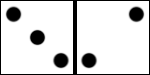
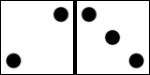
Images resized and minor changes

diff --git a/Domino/src/control/DominoGame.java b/Domino/src/control/DominoGame.java
@@ -203,8 +203,8 @@ public class DominoGame
 	public class MouseClickMotionListener implements MouseListener, MouseMotionListener
 	{
 		private PointerInfo mousePos;
-		private Stone draggedStone;
-		private Rectangle target;
+		private DominoLabel draggedStone;
+		private DominoLabel target;
 		
 		@Override
 		public void mouseDragged(MouseEvent e)
@@ -214,17 +214,14 @@ public class DominoGame
 			
 			if (e.getSource() instanceof DominoLabel)
 			{
-				view.textOut("Ich bin im MouseDragged");
 				DominoLabel d = (DominoLabel) e.getSource();
-				draggedStone = d.getStone();
+				draggedStone = d;
 				int offsetX = d.getTopLevelAncestor().getX() + d.getWidth()/2;
 				int offsetY = d.getTopLevelAncestor().getY() + d.getHeight();
 				
 				d.setLocation(mousePos.getLocation().x - offsetX, mousePos.getLocation().y - offsetY);
 				
-				target = view.checkIntersection();
-				
-				view.textOut("Autoscroll:" + d.getAutoscrolls());
+				target = view.checkIntersection(draggedStone, false);
 			}
 			
 			e.consume();
@@ -239,7 +236,7 @@ public class DominoGame
 			Object o = e.getSource();
 			
 			if (o instanceof DominoLabel)
-				draggedStone = ((DominoLabel) o).getStone();
+				draggedStone = (DominoLabel) o;
 		}
 
 		@Override
@@ -251,17 +248,26 @@ public class DominoGame
 			
 			if (c instanceof DominoLabel)
 			{
-				draggedStone = ((DominoLabel) c).getStone();
+				draggedStone = (DominoLabel) c;
 				System.err.println("Yeah, ich habe auf ein DominoLabel geklickt!");
-				draggedStone.rotateImage(90);
-				((DominoLabel) c).updateImage();
+				draggedStone.getStone().rotateImage(90);
+				draggedStone.updateImage();
 			}
 			
 			else if (c instanceof JLabel)
 				view.textOut("Yeah, ich habe auf ein JLabel geklickt!");
 			
 			else
-				view.addDominoe(allPlayers[0].getHand().get(2), mousePos.getLocation());
+			{
+				int index = allPlayers[0].getHand().size() - 1;
+				if (index >= 0)
+				{
+					view.addDominoe(allPlayers[0].getHand().get(index), e.getPoint());
+					allPlayers[0].getHand().remove(index);
+				}
+				else
+					view.textOut("Dieser Spieler hat keine Steine mehr");
+			}
 			
 			e.consume();			
 		}
@@ -288,10 +294,14 @@ public class DominoGame
 		public void mouseReleased(MouseEvent e)
 		{
 			if (draggedStone != null)
-				view.textOut(draggedStone.getPips1() + "|" + draggedStone.getPips2());
+				view.textOut(draggedStone.getStone().getPips1() + "|" + draggedStone.getStone().getPips2());
 			
 			if (target != null)
+			{
 				view.textOut("Es gibt ein target");
+				view.checkIntersection(draggedStone, true);
+				view.textOut("Target: " + target.getStone().getPips1() + "|" + target.getStone().getPips2());
+			}
 			else
 				view.textOut("Es gibt leider kein target");
 		}

diff --git a/Domino/src/data/Stone.java b/Domino/src/data/Stone.java
@@ -45,7 +45,7 @@ public class Stone
 		
 		//String fileName = new String("ImageSrc/transparenzTest" + pips1 + "_" + pips2 + ".png");
 		//String fileName = new String("ImageSrc/transparenzTest" + 2 + "_" + 4 + "_new" + ".png");
-		String fileName = new String("ImageSrc/" + pips1 + "_" + pips2 + ".png");
+		String fileName = new String("ImageSrc/" + "new" + pips1 + "_" + pips2 + ".png");
 		System.out.println("Dateiname: " + fileName);
 		try {
 			//if (pips1 == 2 && pips2 == 4)		// TODO passendes Bild raussuchen
@@ -65,25 +65,7 @@ public class Stone
 		int z = angle / 90;
 		for (int i = 1; i<=z; i++)
 		{
-			double degrees;
-			int originX = 1;
-			int originY = 0;
-			
-			if (rotated == false)
-			{
-				System.out.println("Gedreht!");
-				degrees = 90;
-				rotated = true;
-			}
-			else
-			{
-				System.out.println("Zurueck gedreht!");
-				degrees = 90;
-				rotated = false;
-				
-				originX -= 2;
-				originY -= 1;
-			}
+			double degrees = 90;
 			
 			double radians = Math.toRadians(degrees);
 			double sin = Math.abs(Math.sin(radians));
@@ -102,7 +84,7 @@ public class Stone
 			at.setToRotation(radians, x + (icon.getWidth(null) / 2), y + (icon.getHeight(null) / 2));
 			at.translate(x, y);
 			g2d.setTransform(at);
-			g2d.drawImage(rawImage, originX, originY, null);
+			g2d.drawImage(rawImage, 0, 0, null);
 			g2d.dispose();
 			
 			rawImage = rotate;
